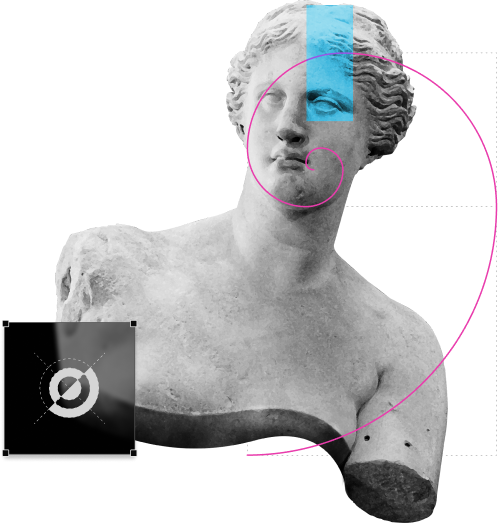
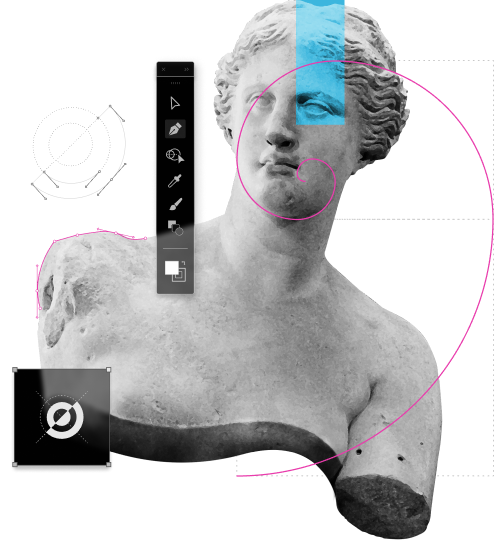
Web pitch cover wireframe

diff --git a/src/components/pitch/Cover/index.js b/src/components/pitch/Cover/index.js
@@ -1,0 +1,19 @@
+import React from 'react';
+import AnchorButton from 'src/components/common/AnchorButton';
+import { inOutQuad } from 'src/utils/easings';
+import styles from './Cover.module.scss';
+
+export default function Cover() {
+  return (
+    <section className={styles.section}>
+      <h1>Hi, Fabio and Sara!</h1>
+      <h2>We will help Bronzo grow.</h2>
+      <div>{'We prepared a brief presentation for you to better\n know us and the solutions we provide.'}</div>
+      <AnchorButton className="btn large ghost" href="#details" easing={inOutQuad} duration={1000}>
+        See How
+        <svg width="11" height="12" viewBox="0 0 11 12" fill="none" xmlns="http://www.w3.org/2000/svg"><path d="M10.8333 6L9.89332 5.06L6.16666 8.78V0.666668H4.83332V8.78L1.11332 5.05333L0.166656 6L5.49999 11.3333L10.8333 6Z" fill="#555" /></svg>
+      </AnchorButton>
+      <img src="/images/wireframes/mosaic.png" alt="" />
+    </section>
+  )
+}

diff --git a/src/components/pitch/Pitch.js b/src/components/pitch/Pitch.js
@@ -12,6 +12,7 @@ import Footer from "src/layouts/Footer";
 import Projects from "src/components/home/Projects";
 import AddOns from "./AddOns";
 import About from "./About";
+import Cover from "./Cover";
 
 export default function Pitch({ props }) {
   const pitch = props.content.pitch;
@@ -29,11 +30,17 @@ export default function Pitch({ props }) {
       </Head>
       <Header content={pitch.header} common={common} />
 
-      <Hero client={client} content={pitch.hero} common={common} />
+      {
+        service === 'web' ? (
+          <Cover />
+        ) : (
+          <Hero client={client} content={pitch.hero} common={common} />
+        )
+      }
       {
         service === 'web' ? (
           <About content={pitchContent.details} />
-          ) : (
+        ) : (
           <Details content={pitchContent.details} />
         )
       }

diff --git a/src/components/pitch/Cover/Cover.module.scss b/src/components/pitch/Cover/Cover.module.scss
@@ -1,0 +1,26 @@
+@use '../../../styles/scss/colors';
+
+.section {
+  display: flex;
+  flex-direction: column;
+  align-items: center;
+  padding-top: calc(80px + 120px);
+  margin-bottom: 1000px;
+
+  & > * {
+    text-align: center;
+  }
+  & > h1 {
+    margin-bottom: 40px;
+  }
+  & > div {
+    white-space: break-spaces;
+    margin: 40px 0;
+    color: colors.$darkGray;
+  }
+  img {
+    width: 100%;
+    height: auto;
+    position: absolute;
+  }
+}

diff --git a/src/components/pitch/About/index.js b/src/components/pitch/About/index.js
@@ -15,7 +15,7 @@ export default function About({ content }) {
             </div>
           </div>
           <div className="col-12 col-lg-5 offset-lg-1 order-1 order-lg-2">
-            <img className="img-fluid" src={`${rootPath}/images/wireframes/project-details.svg`} alt="" />
+            <img className="img-fluid" src={`${rootPath}/images/illustrations/venus.png`} alt="" />
           </div>
         </div>
       </div>
